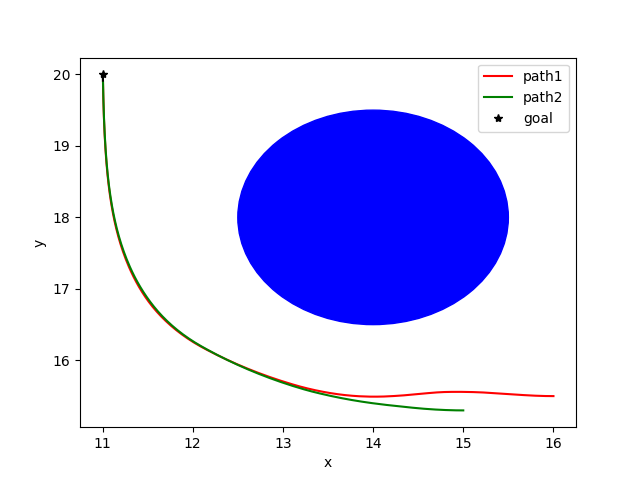
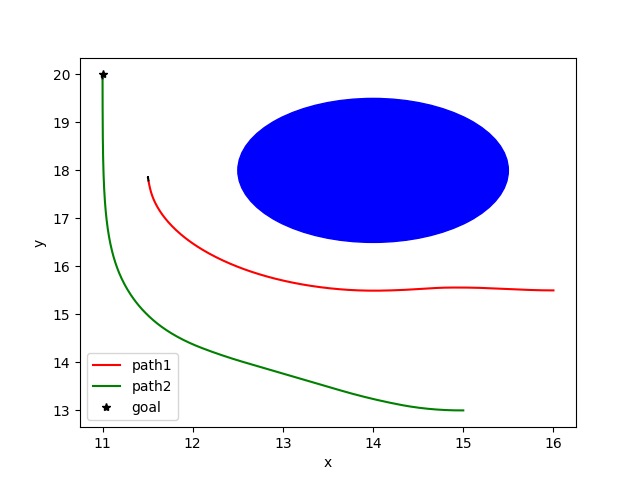
hard collision constraint w resutls

diff --git a/code/single_mpc.py b/code/single_mpc.py
@@ -39,6 +39,8 @@ class MPC:
         self.s_goal = s_goal
 
         self.eps = eps # tolerance for stopping criterion
+        self.v1pos = None
+        self.v2pos = None
 
     def set_time(self, T, dt):
         self.T = T
@@ -84,6 +86,24 @@ class MPC:
         ])
         return ds
     
+    def v1_penalty(self, s):
+        assert self.v2pos is not None
+        tol = 1/10
+
+        dc = jnp.array([
+            jnp.linalg.norm(s[:2] - self.v2pos) - self.L - tol
+        ])
+        return dc
+    
+    def v2_penalty(self, s):
+        assert self.v1pos is not None
+        tol = 1/10
+
+        dc = jnp.array([
+            jnp.linalg.norm(s[:2] - self.v1pos) - self.L - tol
+        ])
+        return dc
+    
     def visualize(self, s1, a1, s2, a2):
         """
         Visualize executed MPC path with goal and track boundary.
@@ -105,7 +125,7 @@ class MPC:
 
         fig.savefig("./traj.png")
 
-    def scp(self, s_mpc, a_mpc, s0, p = 0.2, Nscp = 5):
+    def scp(self, s_mpc, a_mpc, s0, v1, p = 0.2, Nscp = 5):
         solve = True
 
         # --------- Zero Init. ----------
@@ -122,12 +142,16 @@ class MPC:
             Ab, __, cb = affinize(lambda s, __ : self.inner_boundary(s), s_prev, jnp.concatenate((a_prev, a_prev[-1:]))) # Inner boundary (boundary 1)
             Ab, cb = np.array(Ab), np.array(cb)
 
+            Ac, __, cc = affinize(lambda s, __ : self.v1_penalty(s), s_prev, jnp.concatenate((a_prev, a_prev[-1:]))) if v1 else affinize(lambda s, __ : self.v2_penalty(s), s_prev, jnp.concatenate((a_prev, a_prev[-1:])))
+            Ac, cc = np.array(Ac), np.array(cc)
+
             cost = cp.quad_form(s_mpc[-1]-self.s_goal, self.P) + cp.sum([cp.quad_form(s_mpc[i]-self.s_goal, self.Q) + cp.quad_form(a_mpc[i], self.R) for i in np.arange(self.N)])
             
             cons = [s_mpc[0] == s0] # IC
             cons += [cp.abs(a_mpc[:, 0]) <= self.vm] + [cp.abs(a_mpc[:, 1]) <= self.pm] # Control space
             cons += [s_mpc[i+1] == Ad[i] @ s_mpc[i] + Bd[i] @ a_mpc[i] + cd[i] for i in np.arange(self.N)] # Dynamics
             cons += [Ab[i] @ s_mpc[i] + cb[i] >= 0 for i in np.arange(self.N+1)] # Track limtis 
+            cons += [Ac[i] @ s_mpc[i] + cc[i] >= 0 for i in np.arange(self.N+1)] # Collision constraint
             cons += [cp.norm_inf(s_mpc - s_prev) <= p] + [cp.abs(a_mpc - a_prev) <= np.array([[1, 0.2]])] # Trust regions
 
             prob = cp.Problem(cp.Minimize(cost), cons)
@@ -162,7 +186,7 @@ class MPC:
         a2 = np.zeros(a1.shape)
 
         for k in np.arange(sim_steps): 
-            if np.max(np.abs(s01.value - self.s_goal)) < self.eps and np.max(np.abs(s02.value - self.s_goal)) < self.eps:
+            if np.max(np.abs(s01.value - self.s_goal)) < self.eps or np.max(np.abs(s02.value - self.s_goal)) < self.eps:
                 s1 = s1[:k]
                 a1 = a1[:k]
                 s2 = s2[:k]
@@ -171,13 +195,16 @@ class MPC:
                 print("Reached solution!")
                 break
 
-            s1[k], a1[k], solve1 = self.scp(s_mpc1, a_mpc1, s01.value) # rollout vehicle 1
-            s2[k], a2[k], solve2 = self.scp(s_mpc2, a_mpc2, s02.value) # rollout vehicle 2
+            self.v1pos = s01.value[:2] # store xy pos for collision check
+            self.v2pos = s02.value[:2] 
+
+            s1[k], a1[k], solve1 = self.scp(s_mpc1, a_mpc1, s01.value, v1 = True) # rollout vehicle 1
+            s2[k], a2[k], solve2 = self.scp(s_mpc2, a_mpc2, s02.value, v1 = False) # rollout vehicle 2
 
             
-            s01.value = np.array(self.dynamics(s01.value, a1[k, 0])) if solve1 else s01.value
+            s01.value = np.array(self.dynamics(s01.value, a1[k, 0])) if solve1 else s01.value # execute dynamics
             s02.value = np.array(self.dynamics(s02.value, a2[k, 0])) if solve2 else s02.value
-            
+
             if not solve1 or not solve2:
                 print("CVXPY failed: infeasible solution at step " + str(k))
                 break
@@ -196,7 +223,7 @@ def main():
     T = 10
     s_goal = np.array([11, 20, np.pi/2]) 
     s1_init = np.array([16, 15.5, np.pi])
-    s2_init = np.array([15, 15.3, np.pi])
+    s2_init = np.array([15, 13, np.pi])
 
     L = 2 # car width (approx. as a circle)
     vm = 10 # maximum velocity
